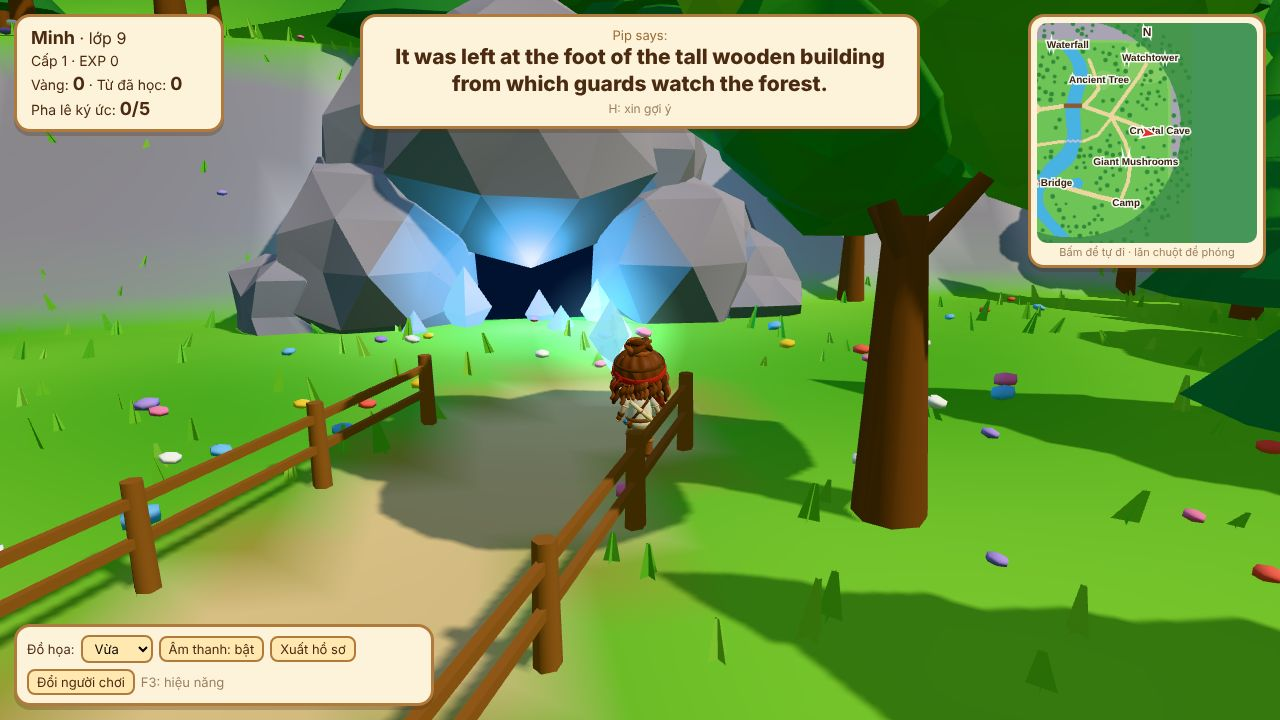
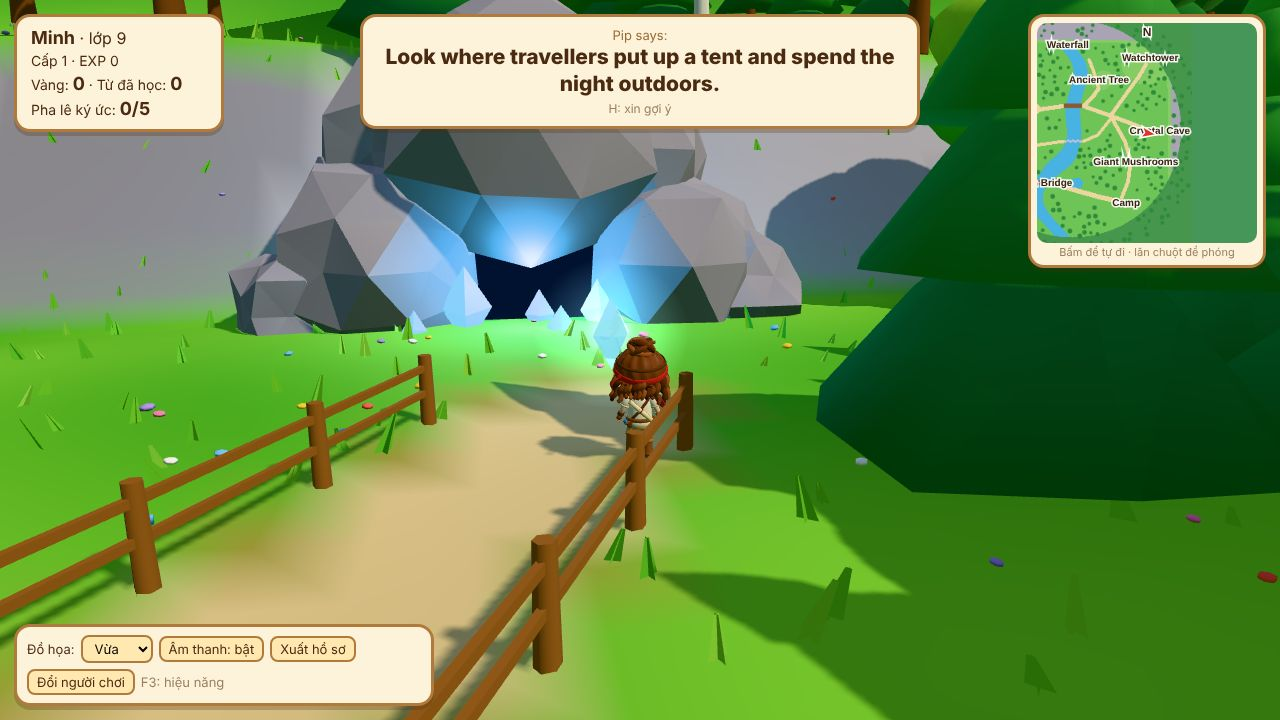
Forest polish and project docs
- Rounded smooth-shaded canopies, trees kept 3.6 m off paths, higher default
  camera, smaller flowers and grass, honest FPS counter (real frame time),
  fixed-step physics so slow machines do not run in slow motion
- Curriculum lookup loads a grade's 12 units in parallel
- docs/: repository audit, game design, art direction, learning design,
  asset manifest, performance budget with measurements, implementation plan
- Screenshots refreshed (39/39 browser checks)

Claude-Session: https://claude.ai/code/session_016V53wUsY15C3tuisncK9Ng

diff --git a/src/world/forest.js b/src/world/forest.js
@@ -1,7 +1,7 @@
 // Forest of Memories — everything you can see. Built procedurally from core/layout.js
 // (InstancedMesh for trees, rocks, grass, flowers, cobbles, fences) plus 4 compact GLBs.
 import * as THREE from 'three';
-import { mergeGeometries } from 'three/addons/utils/BufferGeometryUtils.js';
+import { mergeGeometries, mergeVertices } from 'three/addons/utils/BufferGeometryUtils.js';
 import * as L from '../core/layout.js';
 
 export const TIME = { value: 0 };
@@ -21,7 +21,8 @@ const at = (geo, x, y, z, sx = 1, sy = sx, sz = sx, ry = 0, rx = 0, rz = 0) => {
   const m = new THREE.Matrix4().compose(new THREE.Vector3(x, y, z), new THREE.Quaternion().setFromEuler(new THREE.Euler(rx, ry, rz)), new THREE.Vector3(sx, sy, sz));
   return geo.applyMatrix4(m);
 };
-function lumpy(geo, amount, seed = 1) {
+function lumpy(geo, amount, seed = 1, smoothShade = true) {
+  if (smoothShade) { geo.deleteAttribute('normal'); geo.deleteAttribute('uv'); geo = mergeVertices(geo, 1e-3); }   // shared vertices -> rounded shading
   const p = geo.attributes.position;
   for (let i = 0; i < p.count; i++) {
     const x = p.getX(i), y = p.getY(i), z = p.getZ(i);
@@ -191,7 +192,7 @@ function leafyGeo(trunkHex, palette, { h = 2.6, r = 2.1, clumps = 9, trunkR = 0.
   for (let i = 0; i < clumps; i++) {
     const y = 1 - ((i + 0.5) / clumps) * 1.5, rr = Math.sqrt(Math.max(0, 1 - y * y)), a = i * 2.399 + seed;
     const s = r * (0.42 + 0.16 * ((i * 7 + seed) % 5) / 5);
-    const g = lumpy(new THREE.IcosahedronGeometry(s, 1), 0.12, i + seed);
+    const g = lumpy(new THREE.IcosahedronGeometry(s, 1), 0.1, i + seed);
     parts.push(tint(at(g, Math.cos(a) * rr * r * 0.62, h + r * 0.55 + y * r * 0.55, Math.sin(a) * rr * r * 0.62), palette[y > 0.35 ? 2 : y > -0.2 ? 1 : 0], 0.16));
   }
   return mergeGeometries(parts);
@@ -209,7 +210,7 @@ function buildTrees() {
   return g;
 }
 function buildRocks() {
-  const geo = lumpy(new THREE.IcosahedronGeometry(1, 1), 0.2, 3), n = geo.attributes.position.count, col = new Float32Array(n * 3);
+  const geo = lumpy(new THREE.IcosahedronGeometry(1, 1), 0.2, 3, false), n = geo.attributes.position.count, col = new Float32Array(n * 3);
   const a = C(0x9d9aa8), b = C(0xc3bfcc), moss = C(0x74b84a), t = new THREE.Color();
   for (let i = 0; i < n; i++) { const y = geo.attributes.position.getY(i); t.copy(a).lerp(b, 0.5 + 0.5 * Math.sin(i * 1.7)); if (y > 0.55) t.lerp(moss, 0.75); col.set([t.r, t.g, t.b], i * 3); }
   geo.setAttribute('color', new THREE.BufferAttribute(col, 3)); geo.deleteAttribute('uv');
@@ -242,7 +243,7 @@ function buildFlowers() {
   head.deleteAttribute('uv');
   const hues = [0xffffff, 0xff8fc0, 0xffd84a, 0xb69cf2, 0xff6f61, 0x7fc8ff];
   const mesh = instanced(head, new THREE.MeshStandardMaterial({ roughness: 0.8 }), scatterGround(2200, (x, z) => L.pathDistance(x, z) < 6 || L.riverDistance(x, z) < 9 || rnd() < 0.2), (t, p, e, s, i, m) => {
-    p.set(t.x, L.groundHeight(t.x, t.z) + 0.2 * t.s, t.z); e.set(R(-0.3, 0.3), t.rot, 0); s.setScalar(t.s);
+    p.set(t.x, L.groundHeight(t.x, t.z) + 0.16 * t.s, t.z); e.set(R(-0.3, 0.3), t.rot, 0); s.setScalar(t.s * 0.62);
     m.setColorAt(i, C(hues[Math.floor(t.c * hues.length)]));
   }, false);
   mesh.userData.density = true;
@@ -349,7 +350,7 @@ function cave() {
   const g = new THREE.Group(), y = L.groundHeight(56, 2), rock = std({ flatShading: true });
   const parts = [];
   for (const [x, yy, z, s] of [[0, 1.6, -3.4, 2.6], [0.4, 1.7, 3.5, 2.7], [0.2, 4.9, 0, 3.1], [1.2, 4.2, -2.4, 2.4], [1.2, 4.3, 2.5, 2.4], [-0.3, 0.6, -5.4, 1.5], [-0.2, 0.6, 5.6, 1.6]])
-    parts.push(tint(at(lumpy(new THREE.IcosahedronGeometry(s, 1), 0.16, x + z), x, yy, z), 0xa29fae, 0.18));
+    parts.push(tint(at(lumpy(new THREE.IcosahedronGeometry(s, 1), 0.16, x + z, false), x, yy, z), 0xa29fae, 0.18));
   const arch = new THREE.Mesh(mergeGeometries(parts), rock); arch.castShadow = true; arch.receiveShadow = true; g.add(arch);
   const dark = new THREE.Mesh(new THREE.CircleGeometry(2.3, 16), new THREE.MeshBasicMaterial({ color: 0x0c1830 })); dark.position.set(-0.75, 1.9, 0); dark.rotation.y = -Math.PI / 2; g.add(dark);
   for (const [x, z, s, r] of [[-1.5, -1.5, 1.3, 0.2], [-1.3, 1.6, 1.0, -0.3], [-2.4, 0.6, 0.7, 0.4], [-2.2, -2.6, 0.6, -0.2], [-1.0, 0.2, 0.8, 0]]) { const c = crystal(0x58c8ff, s); c.position.set(x, 0.55 * s, z); c.rotation.z = r; g.add(c); }

diff --git a/src/core/layout.js b/src/core/layout.js
@@ -170,7 +170,7 @@ export const ROCKS = [];   // {x, z, s}
     const a = rnd() * Math.PI * 2, d = Math.sqrt(rnd()) * 82;
     const x = Math.cos(a) * d, z = Math.sin(a) * d;
     const inside = d < PLAY_RADIUS + 2;
-    if (inside && (pathDistance(x, z) < 2.2 || riverDistance(x, z) < riverHalf(z) + 2.4 || !clearOf(x, z, 1.5))) continue;
+    if (inside && (pathDistance(x, z) < 3.6 || riverDistance(x, z) < riverHalf(z) + 2.4 || !clearOf(x, z, 1.5))) continue;
     if (z < -52 && Math.abs(x - riverX(RIVER_START)) < 5) continue;
     if (groundHeight(x, z) < 0 || (inside && slopeAt(x, z) > 0.75)) continue;
     if (TREES.some((t) => Math.hypot(t.x - x, t.z - z) < 3.1)) continue;

diff --git a/src/game/actors.js b/src/game/actors.js
@@ -80,7 +80,7 @@ export class Player {
 
 export class OrbitCamera {
   constructor(camera, dom) {
-    this.camera = camera; this.yaw = 0; this.pitch = 0.42; this.dist = 8.5; this.tYaw = 0; this.tPitch = 0.42; this.tDist = 8.5; this.cur = 8.5;
+    this.camera = camera; this.yaw = 0; this.pitch = 0.52; this.dist = 8.5; this.tYaw = 0; this.tPitch = 0.52; this.tDist = 8.5; this.cur = 8.5;
     this.target = new THREE.Vector3(); let drag = false, lx = 0, ly = 0;
     dom.addEventListener('mousedown', (e) => { if (e.button === 0 || e.button === 2) { drag = true; lx = e.clientX; ly = e.clientY; } });
     addEventListener('mouseup', () => (drag = false));

diff --git a/docs/REPOSITORY_AUDIT.md b/docs/REPOSITORY_AUDIT.md
@@ -1,0 +1,29 @@
+# Repository audit (Godot project `lucky89x/english-game-v3`, branch `claude/adoring-wozniak-7dif4v`)
+
+Audited once on 2026-11-13; binary files were listed by size, not re-read.
+
+## Reused in the web build
+| What | Source in the Godot repo | Use here |
+|---|---|---|
+| Curriculum data, stable ids `g6_u01`… | `data/learning/*.json` (48 units, 1,385 words) | copied to `data/learning/`, read by `src/core/catalog.js` |
+| Ngọc (skinned, 10 clips, face textures) | `assets/characters/models/chr_ngoc_adventurer_v02.glb` 1.8 MB | player |
+| Tom, Sam, Pip | `assets/npc/models/npc_*_v02.glb` 1.1 / 1.0 / 0.1 MB | NPCs |
+| Curved bridge, cottage, forest gate | `assets/environment/village/models/*_v02.glb` | landmarks |
+| Story | CLAUDE.md "Bí mật La Bàn Ngôn Ngữ", 8 regions | `src/game/content.js` OUTLINE |
+| Quest logic worth keeping | lost letter, word jars (decoys, wrong answer explains), bridge repair (order steps), Leitner review, per-child profiles | same rules re-implemented in `src/core/review.js`, `save.js`, `src/game/quest.js` |
+
+## Not shipped (too large or not needed)
+- Whole Godot repo: about 1.3 GB in Git LFS, 1,739 LFS files. Third-party packs (`assets/Medieval Village MegaKit`, `Ultimate Stylized Nature`, `RPG Characters`, FBX/OBJ duplicates of the same models), `.blend` sources, 2K textures.
+- Detailed tree GLBs (0.7–1.0 MB each): replaced by procedural instanced trees.
+- Reference paintings (`assets/assets/reference_art/`, user uploads): used as art direction only, never as textures or models.
+
+## Missing content
+- Grammar and pronunciation for most units; readings exist only for unit 1 of grades 6 and 8.
+- Recorded or generated voice: none.
+- Models for Ben (not used yet), Lily, Rose, Anna, new characters from the reference sheets.
+- Web versions of Chapter I quests (letter, word jars, bridge repair).
+
+## Licences / attribution
+- three.js r170, MIT (`vendor/THREE_LICENSE`).
+- Character, bridge, cottage, gate models: made for this project with `tools/chibi05` Blender scripts.
+- Vocabulary: owner's notes (grades 6, 8) and VietJack word lists (grades 7, 9); word + meaning only. Quest texts are original.

diff --git a/docs/LEARNING_DESIGN.md b/docs/LEARNING_DESIGN.md
@@ -1,0 +1,9 @@
+# Learning design
+
+- **Separation.** Curriculum data (`data/learning`, `core/catalog.js`) · story/quest state (`profile.quests`, `profile.flags`) · student progress (`profile.words`, `profile.skills`) · review scheduling (`core/review.js`).
+- **Grades.** Each clue has four authored versions: grade 6 names the place in a short sentence; grade 7 adds direction; grade 8 uses natural dialogue with liking verbs; grade 9 paraphrases (the place word is absent, the child infers). A grade with no authored clue shows "chưa được soạn"; content of another grade is never substituted. Word ids come from the child's own grade when the word is in that curriculum (e.g. `g6_u05:waterfall`), otherwise `forest:<word>`.
+- **Progressive support (H).** 0 English + the visible world → 1 keyword highlighted → 2 Vietnamese meaning of the keyword → 3 star on the minimap. After a wrong crystal: what this place is, in both languages, plus the clue again. Vietnamese otherwise appears only for controls.
+- **No reward for guessing.** A wrong touch sends the word to box 0 and caps the reward at 1 gold.
+- **Tracked per word:** seen, right, wrong, first-try count, hints, last response time, last day, next due day, box. Per skill (reading, vocabulary): attempts, correct, first-try, hints.
+- **Spaced repetition:** boxes 0–6 = 0, 1, 2, 4, 7, 15, 30 days. Wrong → box 0. Right with a hint → box 1. Right without help → one box up.
+- **Not built yet:** due words are stored but no later encounter asks for them again; listening (audio with replay/slow), speaking, sentence building, buying/selling.

diff --git a/docs/PERFORMANCE_BUDGET.md b/docs/PERFORMANCE_BUDGET.md
@@ -1,0 +1,28 @@
+# Performance budget and measurements
+
+## Budget
+- Initial download: target under 20 MB. **Measured 6.05 MB** (files actually requested during the end-to-end run, uncompressed).
+- Triangles in view: under 700k on High, under 450k on Low. Draw calls under 150.
+- Textures: none above 1024 px.
+
+## Measured (2026-11-14, Chromium headless + SwiftShader (software GL, no GPU))
+| Quality | FPS | Frame | Draw calls | Triangles |
+|---|---|---|---|---|
+| Low | 2.3 | 432.5 ms | 98 | 601,502 |
+| Medium | 1.4 | 739.4 ms | 100 | 641,870 |
+| High | 1.1 | 942.4 ms | 100 | 692,646 |
+
+**These FPS numbers are from a server with no graphics card (software rasteriser).** They show the relative cost of the presets, not what a child will see. FPS on a real desktop or school computer has not been measured; press F3 in the game to read it.
+(Triangle counts above were taken before the canopy detail was lowered again; re-run `node tests/e2e.mjs` to refresh.)
+
+## Quality presets
+| | Low | Medium | High |
+|---|---|---|---|
+| Render scale | 0.6 × device | up to 1.0 | up to 1.5 |
+| Sun shadows | off | 2048, 55 m | 4096, 85 m |
+| Grass / flowers | 22% | 60% | 100% |
+| Particles, mist | off | on | on |
+| Far mountains | off | on | on |
+
+## Known cost centres
+Trees (about 420 instances, 3 draw calls) and shadows. Not done yet: LOD for far trees, frustum-culled chunks for grass, Meshopt/KTX2 compression of the GLBs.

diff --git a/docs/ART_DIRECTION.md b/docs/ART_DIRECTION.md
@@ -1,0 +1,14 @@
+# Art direction
+
+Target: the warm chibi fantasy paintings supplied by the owner (forest map: waterfall cliff, winding river, arched bridges, ancient tree with lanterns, ruins with a crystal, crystal cave, giant red mushrooms, camp, watchtower, cobbled paths with fences and lamps).
+
+- Palette: sky `#2880f2 → #bde6ff`, grass `#58b535 / #86d44a`, water `#0d80b8 → #4ddbe6` with white foam, path `#e9d29c`, roofs/mushrooms `#db3a2c`, wood `#9a6436`, stone `#9b99a8`, glow `#ffc45a` (lanterns) and `#58c8ff` (crystals).
+- Light: one warm sun with soft shadows, sky/ground hemisphere light, linear fog 70–330 m in sky colour, Neutral tone mapping (keeps saturation; no bloom pass yet).
+- Shapes: rounded canopies (smooth-shaded lumpy spheres), stacked-cone pines, faceted rocks, big readable landmarks.
+- Motion: wind on trees and grass, flowing water, waterfall with mist, flickering campfire, floating crystals, butterflies/fireflies, drifting clouds.
+
+## Honest gap to the reference
+- Procedural low-poly, not painted detail: no leaf cards, no roof tiles, no ivy, no cliff strata.
+- Ngọc is the existing chibi model: no red neck scarf, potion or scroll as in the new turnaround sheet.
+- No bloom, no ambient occlusion, no reflections.
+Next art batch: Blender-built hero props (ancient tree, cottage variants, cliff pieces) exported as Meshopt GLB under 300 KB each; Ngọc v03 per the turnaround sheet.

diff --git a/docs/GAME_DESIGN.md b/docs/GAME_DESIGN.md
@@ -1,0 +1,17 @@
+# Game design
+
+**Premise.** The Language Compass broke into pieces; each region lost part of its words. Ngọc uses English to understand, find and repair.
+
+## Implemented: "Echoes of the Forest" (Forest of Memories, 10–15 min)
+1. Tom at the gate explains (English, 4 lines) and introduces Pip.
+2. Pip gives 5 clues, one at a time, in English. Each names or paraphrases one of 8 landmarks (waterfall, cave, camp, bridge, mushrooms, tower, cottage, ruins). A crystal glows at every landmark, so the wrong ones are natural decoys.
+3. Right crystal: gold (5 / 4 / 3 / 1 by hints used; 1 after a wrong guess), next clue. Wrong crystal: Pip says what that place is and repeats the clue; the miss is recorded.
+4. Five found: carry them to the ancient tree. The tree asks three of the words by English definition (review challenge).
+5. Ending: a compass piece points to the Golden Wind Desert.
+Optional: Sam at the camp tells a short story.
+
+## Controls
+WASD, Shift, Space, E, H (hint), left-drag orbit 360°, wheel zoom, minimap click-to-travel (A*, WASD cancels), F3 perf.
+
+## Not implemented yet
+Chapter I in the browser (arrival, lost letter, word jars, bridge repair, footprints, festival, review, unlock forest); interiors; Ben, Lily, Rose, Anna; NPC schedules; collectibles; listening and speaking tasks. Chapters III–VIII exist as one-line outlines in `src/game/content.js`.

diff --git a/docs/ASSET_MANIFEST.md b/docs/ASSET_MANIFEST.md
@@ -1,0 +1,19 @@
+# Runtime asset manifest (everything the browser downloads)
+
+| File | Size | Use |
+|---|---|---|
+| `vendor/three.module.min.js` | 0.69 MB | renderer |
+| `vendor/addons/loaders/GLTFLoader.js`, `utils/BufferGeometryUtils.js` | 0.14 MB | model loading, geometry merge |
+| `assets/models/chr_ngoc_adventurer_v02.glb` | 1.79 MB | Ngọc, 10 animations |
+| `assets/models/npc_tom_elder_v02.glb` | 1.11 MB | Tom |
+| `assets/models/npc_sam_fisherman_v02.glb` | 0.99 MB | Sam |
+| `assets/models/npc_pip_spirit_v02.glb` | 0.12 MB | Pip |
+| `assets/models/bld_cottage_red_v02.glb` | 0.59 MB | woodcutter's cottage |
+| `assets/models/prop_bridge_curved_v02.glb` | 0.34 MB | two bridges |
+| `assets/models/prop_forest_gate_v02.glb` | 0.19 MB | entrance gate |
+| `assets/tex/ngoc_face_{blink,talk,joy}.png` | 3 × 1024 px | facial expressions |
+| `data/learning/*.json` | 49 files, about 0.2 MB | curriculum (12 files of the chosen grade are fetched) |
+| `src/**/*.js`, `index.html` | about 0.1 MB | game code |
+
+Everything else (terrain, river, waterfall, trees, rocks, grass, flowers, cobbles, fences, ancient tree, ruins, cave, mushrooms, camp, tower, mountains, sky, sounds) is generated in code. `vendor/addons/utils/SkeletonUtils.js` is present but not loaded.
+Exact per-file bytes of the last test run: `docs/measurements.json`.

diff --git a/docs/IMPLEMENTATION_PLAN.md b/docs/IMPLEMENTATION_PLAN.md
@@ -1,0 +1,12 @@
+# Implementation plan
+
+## Done (milestone 0, this branch)
+Engine shell (renderer, sky, light, fog, quality presets, perf panel) · map data as single source (`core/layout.js`) · collision + A* · player with real animations, blink, expressions · orbit camera with collision · Forest of Memories scenery · quest with graded clues, hints, decoys, review challenge, ending · multi-profile versioned saves with export/import · minimap travel · synth sound · 13 logic tests + 39 real-browser checks.
+
+## Next batches (in order)
+1. **Starter Village in the browser**: layout from the Godot `village_layout.gd`, houses as compressed GLB, square, market, dock, both bridges, forest gate; port Lost Letter, Word Jars, Bridge Repair; connect village → forest.
+2. **Chapter I story chain**: arrival, footprints, language symbol, festival, chapter review, unlock; target 45–90 min.
+3. **Characters**: Ben; Lily, Rose, Anna and travellers; Ngọc v03 per the turnaround sheet; NPC schedules.
+4. **Learning**: later encounters that ask due words; listening with generated audio (replay, slow); sentence building.
+5. **Art pass**: Blender hero props, bloom on magic objects, tree LOD, interiors (hall, shop, cottage).
+6. **Release**: GLB Meshopt + KTX2, FPS on a real school computer, GitHub Pages workflow.

diff --git a/README.md b/README.md
@@ -18,6 +18,12 @@ npm i playwright && node tests/e2e.mjs --shots screenshots       # trình duyệ
 ## Điều khiển
 WASD đi · Shift chạy · Space nhảy · E tương tác · H gợi ý · giữ chuột trái kéo để xoay · lăn chuột để zoom · bấm bản đồ nhỏ để tự đi · F3 hiệu năng.
 
+## Tài liệu
+`docs/`: REPOSITORY_AUDIT, GAME_DESIGN, ART_DIRECTION, LEARNING_DESIGN, ASSET_MANIFEST, PERFORMANCE_BUDGET, IMPLEMENTATION_PLAN, measurements.json. Ảnh chụp: `screenshots/`.
+
+## Đăng lên GitHub Pages
+Repo → Settings → Pages → Deploy from a branch → chọn nhánh chứa `index.html`, thư mục `/ (root)`. Không cần bước build.
+
 ## Ghi chú trung thực
 - Mới có Rừng Ký Ức (Chương II); Làng Khởi Đầu và các chương còn lại chưa port.
 - Ngọc, Tom, Sam, Pip dùng lại model GLB của bản Godot. Chưa có nhân vật mới, nội thất, giọng đọc.
